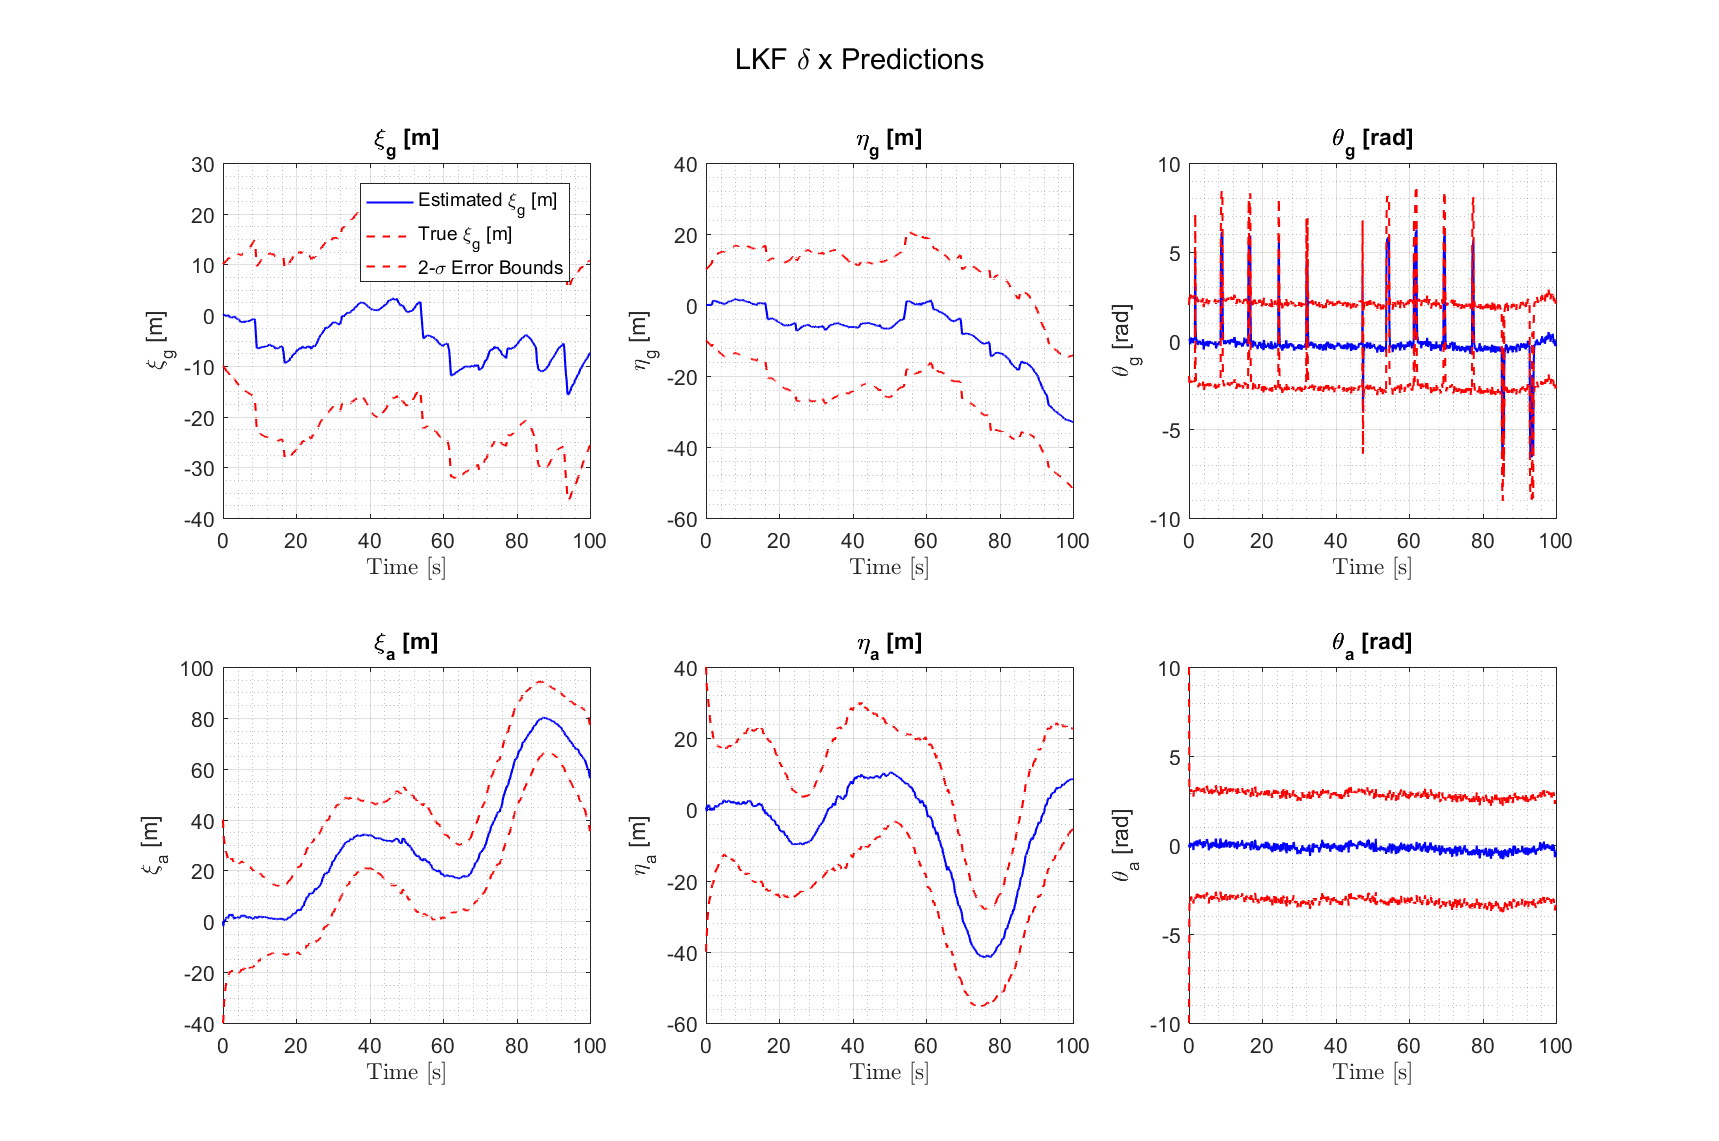
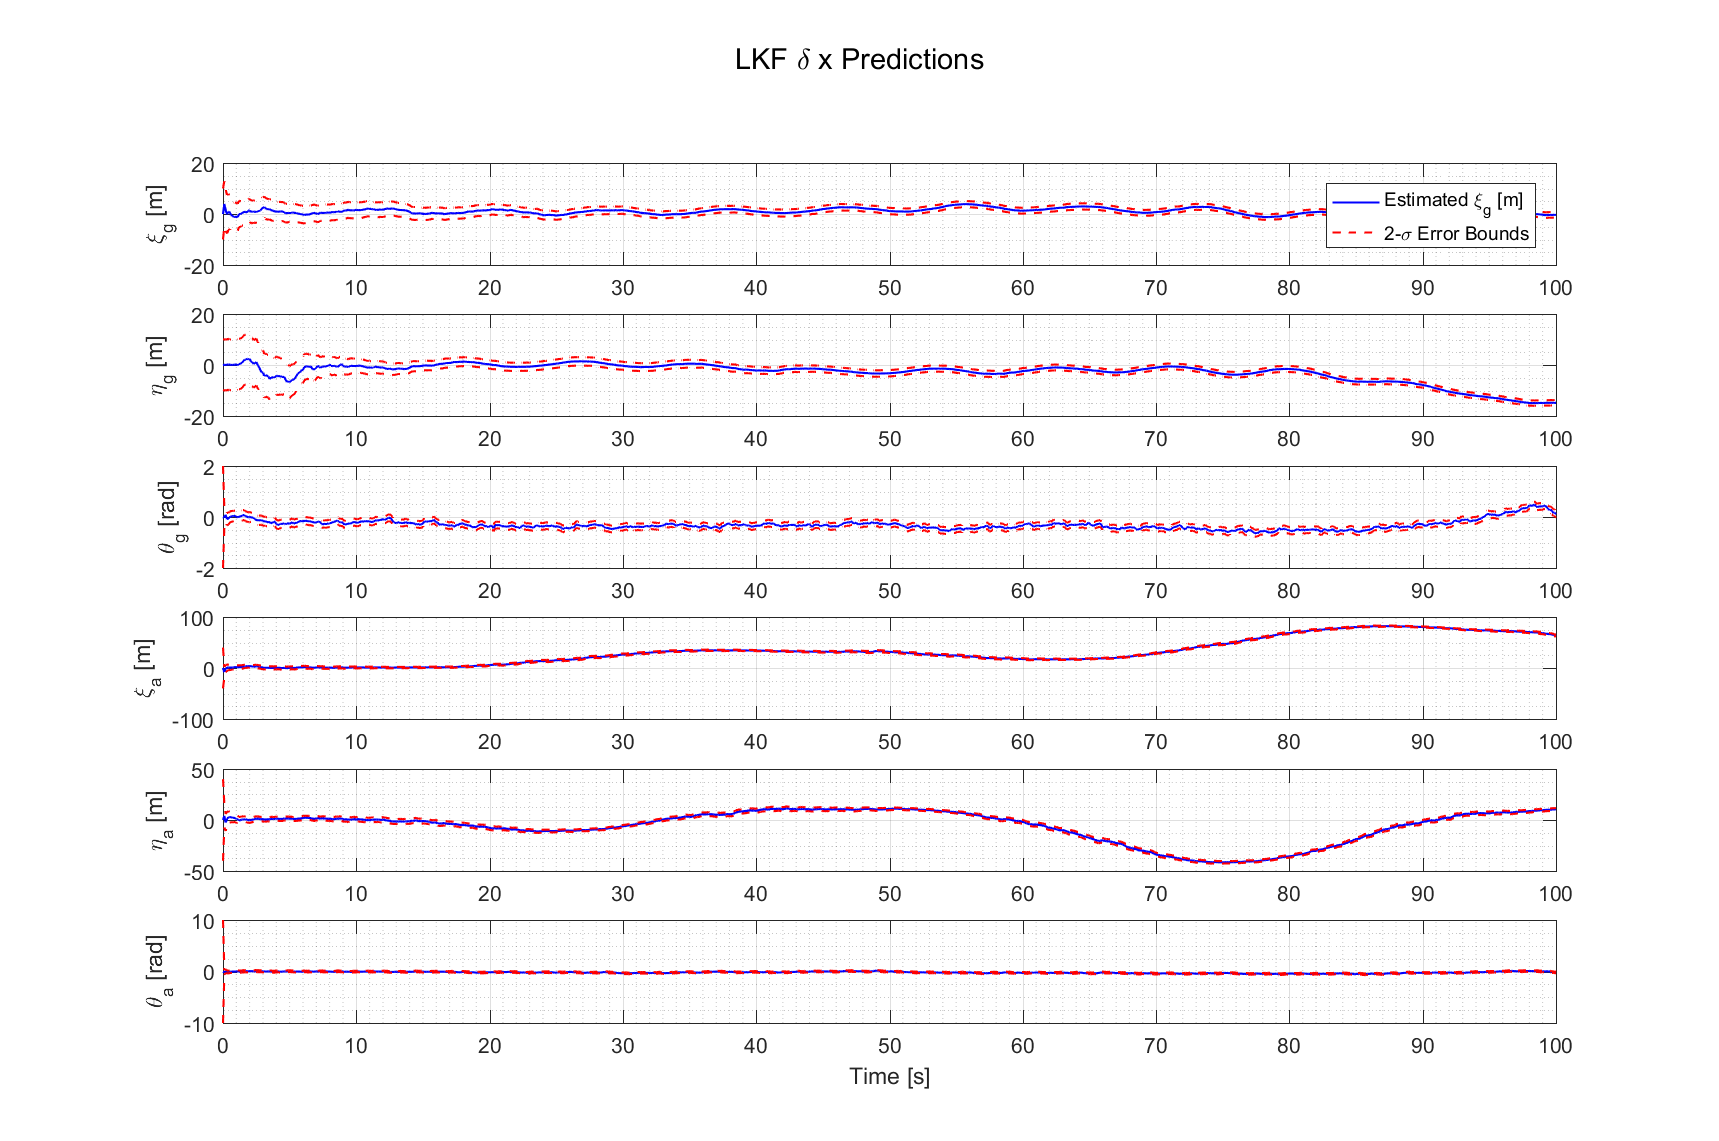
EKF Tuned Fairly Well

diff --git a/progress1.m b/progress1.m
@@ -12,8 +12,8 @@
 clear; close all; clc;
 
 % Make plots?
-plotbool = [0 0 1 0]; %Noiseless Prop, LKF Tune, EKF Tune, Implement
-runbool = [1 0 1 0]; %MC, LKF Tuning, EKF Tuning, Implement
+plotbool = [0 1 0 0]; %Noiseless Prop, LKF Tune, EKF Tune, Implement
+runbool = [1 1 0 0]; %MC, LKF Tuning, EKF Tuning, Implement
 %rng(100);
 
 dt = 0.1;
@@ -162,7 +162,7 @@ for i = 1:num
     % Generate measurements 
     measMC = meas(xMC(:,2:end,i)); %Exact measurements for the states
     noisymeas(:,:,i) = measMC + mvnrnd([0;0;0;0;0],Rtrue,len-1)'; %added noise
-    %noisymeas(:,:,i) = measMC; %added noise
+    %noisymeas(:,:,i) = measMC; %No noise
 end
 
 
@@ -189,8 +189,8 @@ for i = 1:len-1
     HkLKF(:,:,i) = C(xnom(:,i+1)); %Recall indexing different
 end
 
-QLKF = 50000*Qtrue;
-RLKF = 80*Rtrue;
+QLKF = 10000*Qtrue;
+RLKF = 3*Rtrue;
 P0_LKF = 100*P0; %Cheating?
 
 if runbool(1) && runbool(2)
@@ -200,6 +200,7 @@ NIS_LKF = zeros(num,len-1);
 for i=1:num
     % Create dy 
     dyLKF =noisymeas(:,:,i)-ynom; %Difference between measurement and nomimal meas
+    dyLKF([1 3],:) = angdiff(ynom([1 3],:),noisymeas([1 3],:,i));
     
     %Linearized KF
     [dxLKF,P,NIS_LKF(i,:),innovations] = LKF(zeros(6,1),P0_LKF,time,FkLKF,GkLKF,dukLKF,OmegakLKF,QLKF,RLKF,HkLKF,dyLKF);
@@ -209,7 +210,7 @@ for i=1:num
     epsx = xMC(:,:,i)-xLKF;
     epsx([3 6],:) = angdiff(xLKF([3 6],:),xMC([3 6],:,i));
     for j = 1:len
-        NEES_LKF(i,j) = epsx(:,j)'/(P(:,:,j)*epsx(:,j));
+        NEES_LKF(i,j) = epsx(:,j)'/P(:,:,j)*epsx(:,j);
     end
 end
 NEES_avg_LKF = mean(NEES_LKF);
@@ -267,9 +268,9 @@ end
 
 %% Extended Kalman Filter
 REKF = Rtrue;
-QEKF = 10*Qtrue;
-%QEKF(4:6,:) = 100*Qtrue(4:6,:);
-P0_EKF = 100*P0;
+QEKF = Qtrue;
+QEKF(1:2,:) = .1*Qtrue(1:2,:);
+P0_EKF = P0;
 
 if runbool(1) && runbool(3)
 NEES_EKF = zeros(num,len);

diff --git a/filterEstimate.m b/filterEstimate.m
@@ -17,7 +17,7 @@ function fig = filterEstimate(mu,P,t,stateNames,plottitle,val)
 fig = figure;
 lw = 1;
 for i  = 1:6% Assumes 6 state Variables
-    subplot(2,3,i)
+    subplot(6,1,i)
     plot(t,mu(i,:),'b','LineWidth',lw);
     hold on
     grid on
@@ -25,11 +25,12 @@ for i  = 1:6% Assumes 6 state Variables
     sigma =  sqrt(reshape(P(i,i,:),1,length(mu)));
     plot(t,val*mu(i,:)+2*sigma,'r--','LineWidth',lw)
     plot(t,val*mu(i,:)-2*sigma,'r--','LineWidth',lw)
-    xlabel('Time [s]','interpreter','latex')
     ylabel([stateNames{i}])
-    title(stateNames{i})
     if i == 1
-        legend(['Estimated ' stateNames{i}],['True ' stateNames{i}],'2-\sigma Error Bounds')
+        legend(['Estimated ' stateNames{i}],'2-\sigma Error Bounds')
+    end
+    if i==6
+        xlabel('Time [s]')
     end
 end
 suptitle(plottitle)
